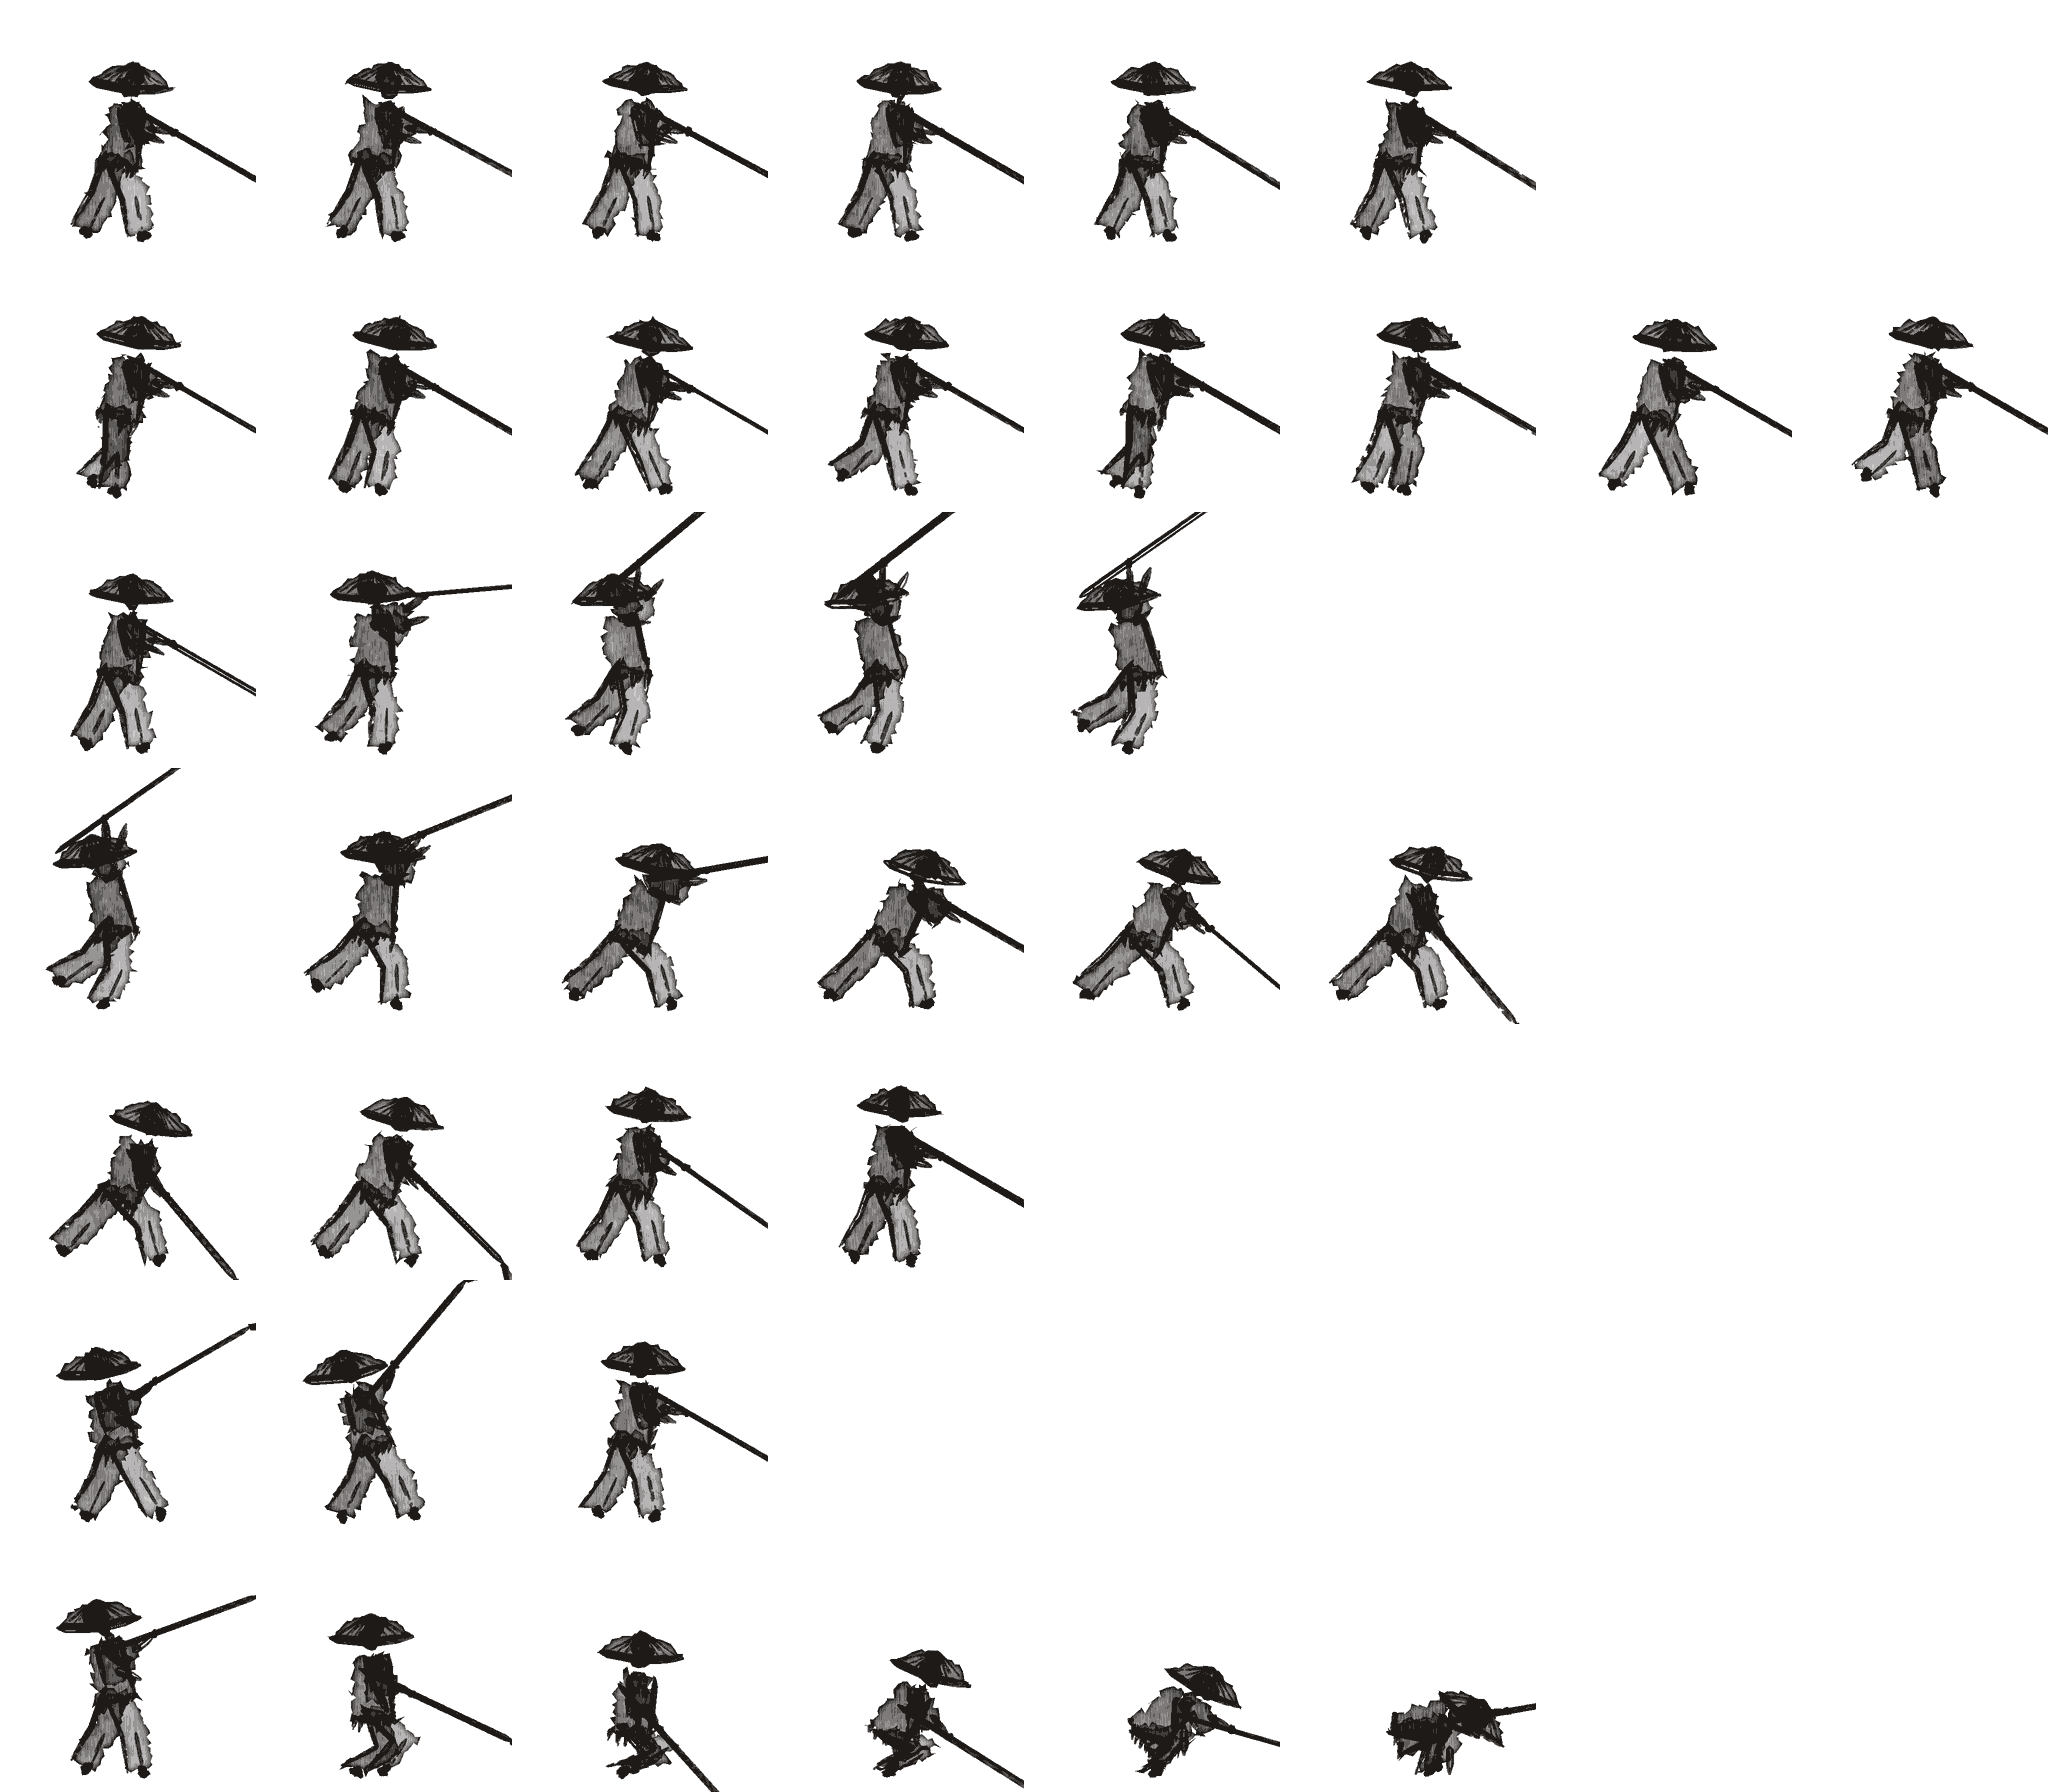
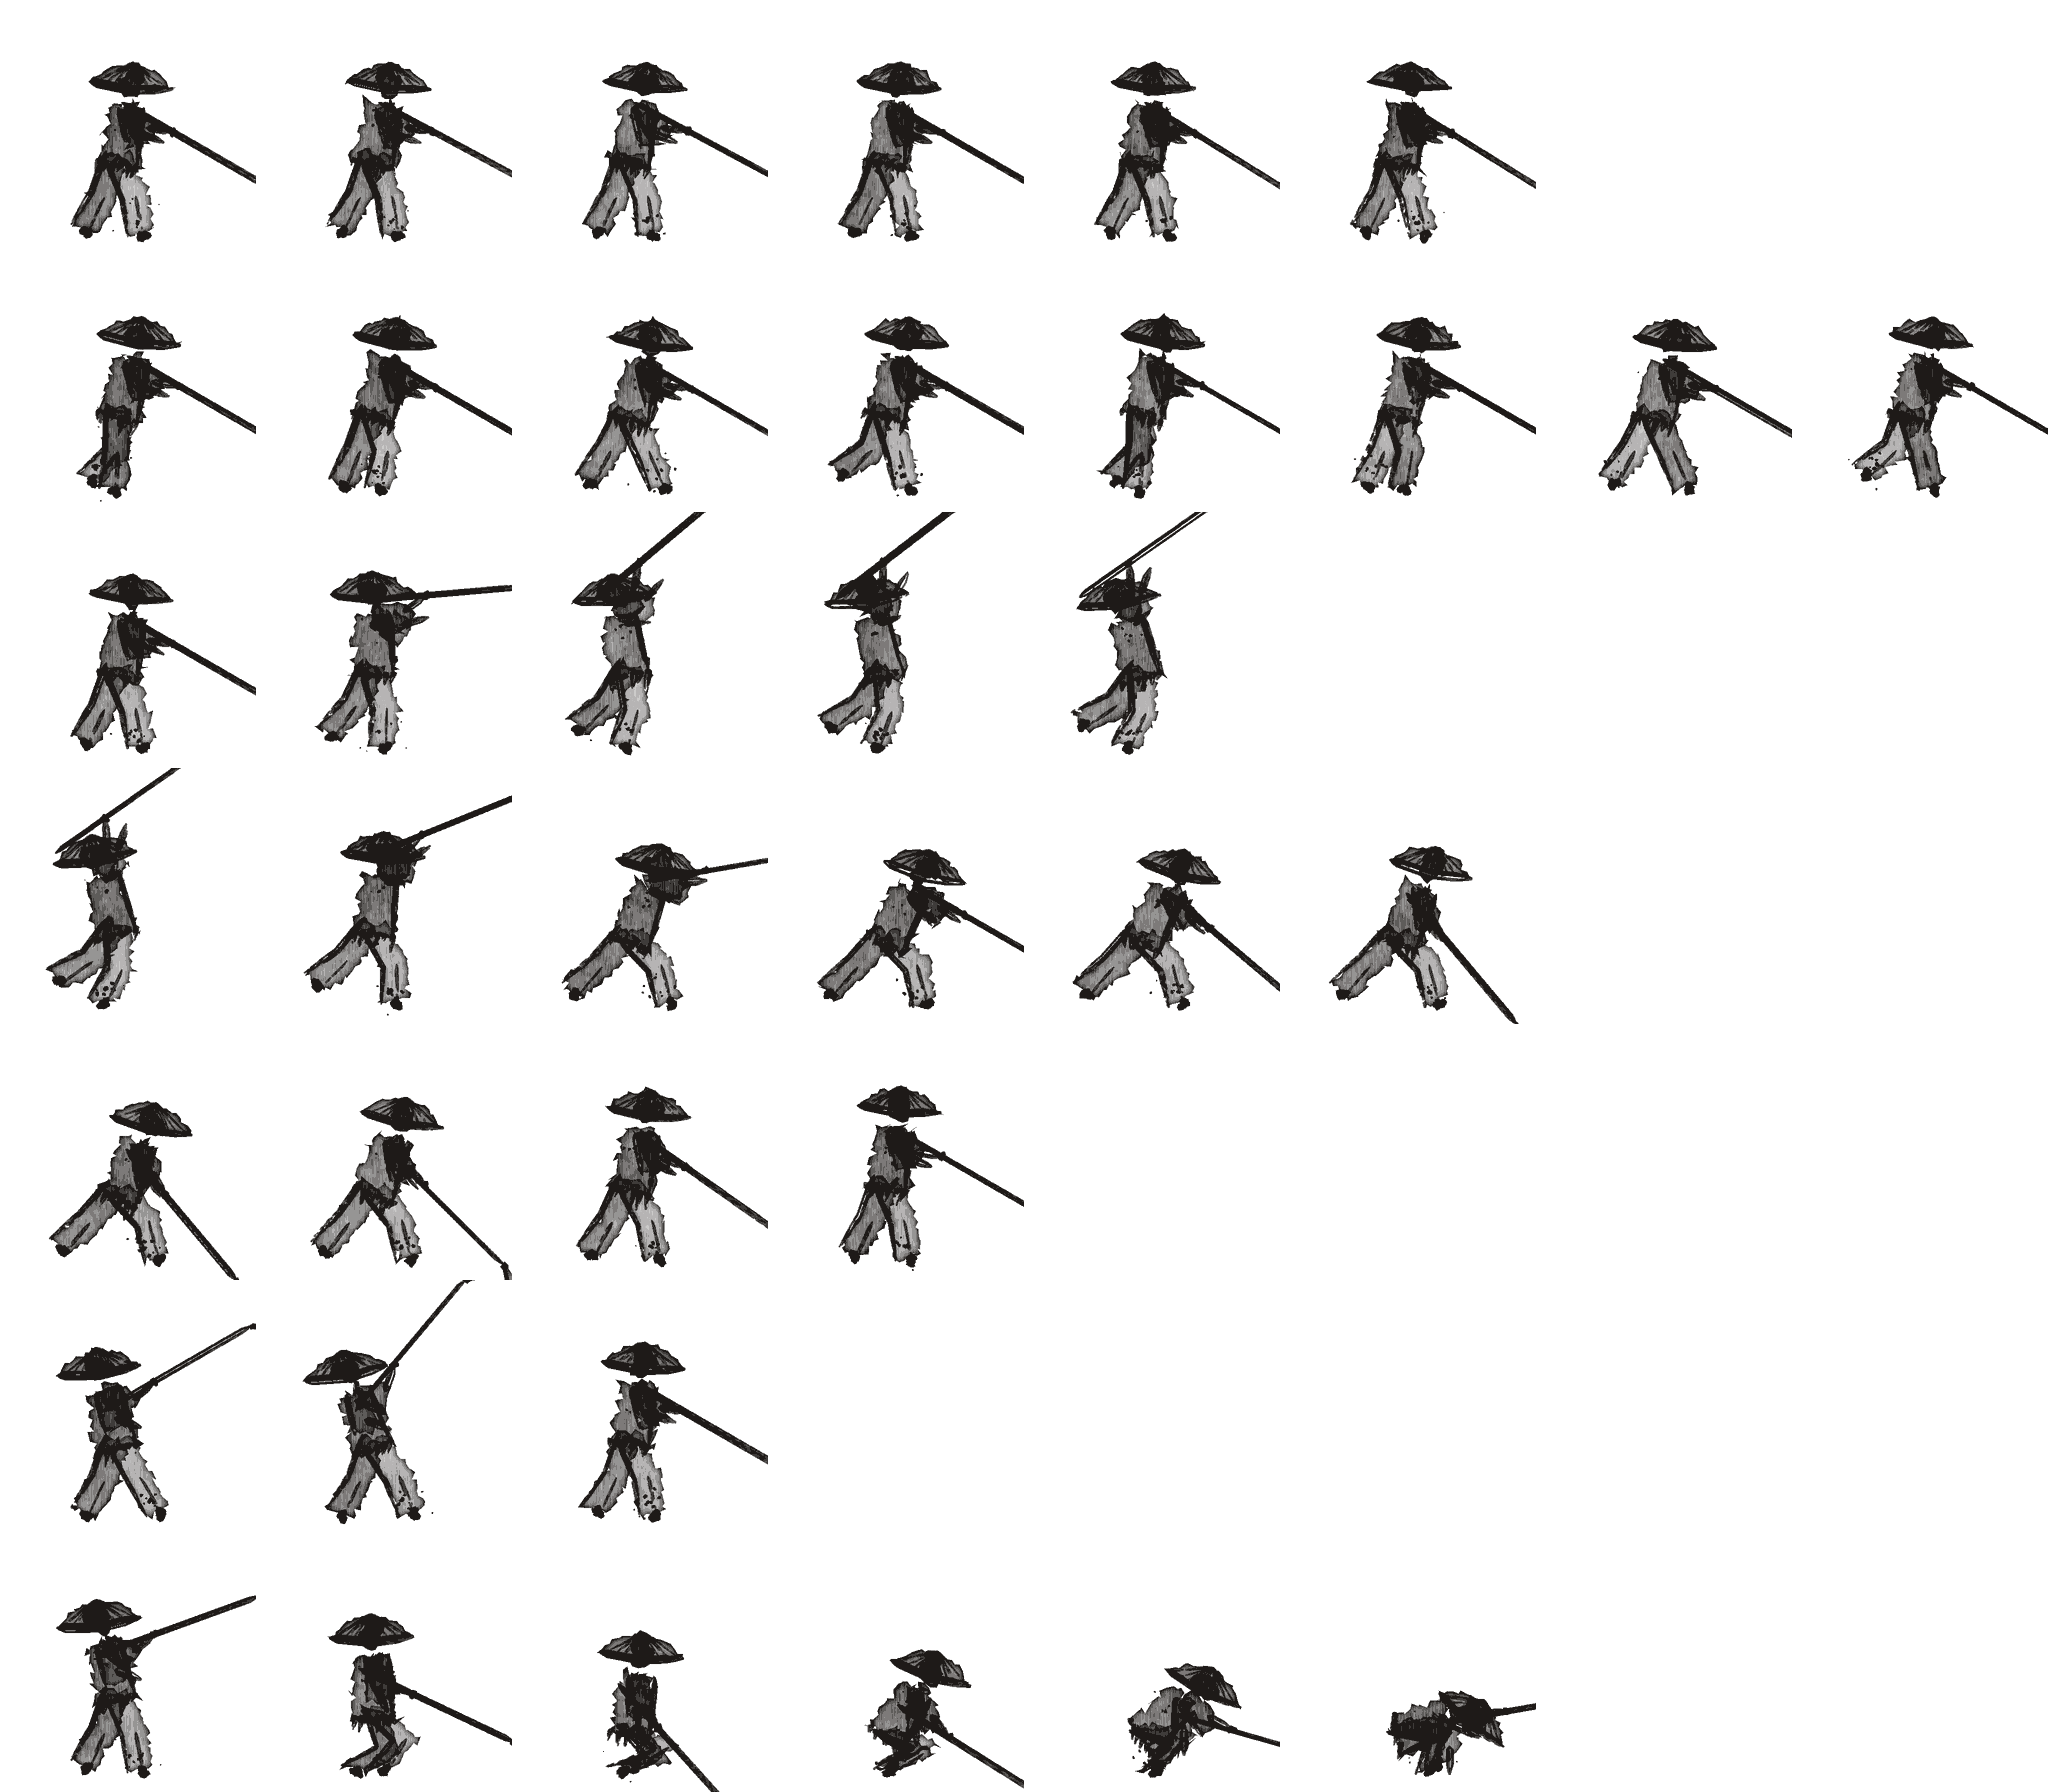
Godot take C2 (WIP): larger splashed figures, closer cameras, bigger curtains, denser bursts (F-01 F-02 F-03 F-07)

Changed region(s): [[0.3438, 0.6562, 0.375, 0.6875], [0.0625, 0.3438, 0.0938, 0.375]]

diff --git a/godot/tools/figures.py b/godot/tools/figures.py
@@ -61,7 +61,7 @@ def draw_player(c, J, pose):
     # back sleeve + arm
     draw_sleeve(c, J['sh'], J['b_el'], J['b_hand'], 0.5)
     # back leg hakama
-    draw_hakama_leg(c, J['hip'], J['b_knee'], J['b_foot'], shade=0.62)
+    draw_hakama_leg(c, J['hip'], J['b_knee'], J['b_foot'], shade=0.7)
     # torso kimono
     n = perp(J['hip'], J['neck'])
     hipL = J['hip'] + n * 15; hipR = J['hip'] - n * 15
@@ -79,7 +79,7 @@ def draw_player(c, J, pose):
     c.wash([tuple(o1 + n * 16), tuple(o2 + n * 15), tuple(o2 - n * 15), tuple(o1 - n * 16)], dens=0.9, edge=0.3, layer='red', rag=1.0)
     c.stroke([tuple(o1 + n * 14), tuple(o1 - n * 14)], w=2.2, dry=0.4, ink=0.8)
     # front leg
-    draw_hakama_leg(c, J['hip'], J['f_knee'], J['f_foot'], shade=0.36)
+    draw_hakama_leg(c, J['hip'], J['f_knee'], J['f_foot'], shade=0.45)
     # head: big black bob with a small pale face showing at the front
     h = J['head']; lean = pose.get('lean', 0) + pose.get('head', 0)
     fwd = np.array([math.cos(math.radians(lean)), math.sin(math.radians(lean))])
@@ -105,6 +105,9 @@ def draw_player(c, J, pose):
     draw_sleeve(c, J['sh'], J['f_el'], J['f_hand'], 0.24)
     # hand
     c.dab(*J['f_hand'], 3.2, ink=0.25)
+    # wet-ink spatter clinging to the silhouette (reference figures are splashed, not clean)
+    c.splatter(*(lerp(J['hip'], J['b_foot'], 0.7)), 10, 7, 2.2, ink=0.9)
+    c.splatter(*(lerp(J['sh'], J['b_el'], 0.6)), 8, 5, 1.8, ink=0.9)
     # katana
     tip = J['f_hand'] + V(sword_a, PDIM['sword'])
     hilt = J['f_hand'] - V(sword_a, 16)
@@ -185,6 +188,8 @@ def draw_ronin(c, J, pose):
         b = lerp(brimL, brimR, t) + up * (-3 * math.sin(t * math.pi))
         c.stroke([tuple(top), tuple(b)], w=1.6, dry=0.6, ink=0.8, taper=(0.1, 0.3))
     c.stroke([tuple(brimL), tuple(h - up * 11), tuple(brimR)], w=5.5, dry=0.35, taper=(0.1, 0.2))
+    c.splatter(*(lerp(J['hip'], J['f_foot'], 0.8)), 14, 10, 2.6, ink=0.9)
+    c.splatter(*J['chest'], 12, 6, 2.2, ink=0.9)
     draw_sleeve_dark(c, J['sh'], J['f_el'], J['f_hand'], 0.75)
     tip = tipb
     if pose.get('pole_behind', 0) <= 0.5: tip = naginata()

diff --git a/godot/CHECKPOINT.md b/godot/CHECKPOINT.md
@@ -6,3 +6,4 @@
 - 2026-09-23 M1: Godot project: parchment ground shader with stippled flecks + distance haze, 3 multimesh grass swath layers (Y-billboard, wind sway, alpha scissor), Y-billboard Sprite3D fighters, sweeping slash shader, ink bursts that land as ground stains, dodge ghosts + footprints, post pass (paper grain, ink-wash vignette, hurt tint).
 - 2026-09-23 M1: duel loop: 3-hit combo with hit-stop and shake, dodge with i-frames, ronin AI (approach / windup / swing / recover / stagger / die), escalating respawns up to 3 foes, death + restart. Keyboard, mouse, gamepad, touch joystick + buttons.
 - 2026-09-23 M1: web export verified in headless Chrome at 1280x720 and 390x844: boot ~3-4 s local, 0 console errors, only same-origin requests, CSP meta with hashed inline script.
+- 2026-09-23 C2 (WIP, not yet audited): F-01 sprites 34% larger (PIXEL 0.0158) + wet spatter baked onto silhouettes, darker hakama; F-07 closer portrait/landscape cameras; F-03 player curtains 1.35-1.8x, 0.42 s; F-02 bursts 80 droplets/power + wider bloom; enemy HP bar clamped on screen.

diff --git a/godot/HANDOFF.md b/godot/HANDOFF.md
@@ -1,6 +1,9 @@
 # Handoff
 
 ## Resume here
+Cycle 2 is mid-way: the F-01/F-02/F-03/F-07 changes are committed but NOT yet verified. Next: capture the player's combo curtain and a hit burst at 1280x720 and 390x844 (Playwright capture timing is flaky; hook a capture on the slash spawn instead of fixed sleeps), check the player attack still lands at the new ranges, run the side-by-side, then re-grade.
+
+Cycle 1 audit list:
 Cycle 2 audit, priority order (from the M1 side-by-side vs reference frame 03:18.90):
 1. F-01 Figures too small and too clean vs reference. Reference figures fill ~50-60% of frame height and are heavy wet ink with splashed texture. Bring camera closer / scale sprites, add heavier wash and splatter on the silhouettes.
 2. F-02 Hit bursts too sparse. Reference impact is a dense cloud of hundreds of droplets engulfing both fighters plus red accents. Needs a baked burst sheet (animated) rather than a few blot sprites.
